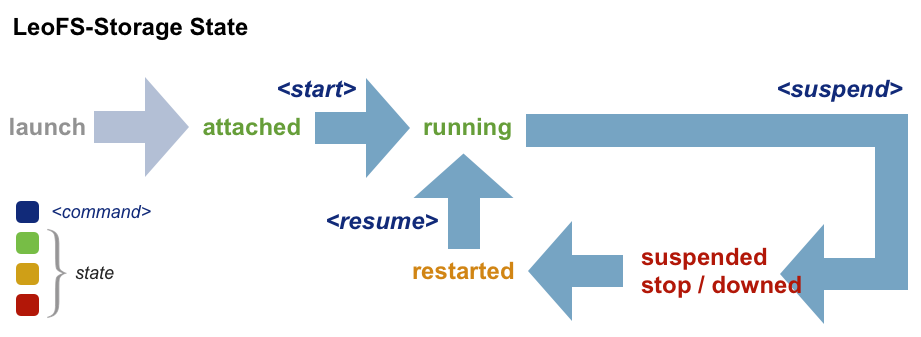
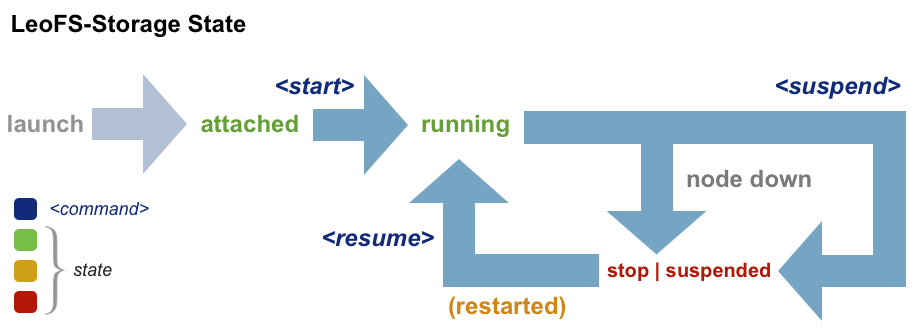
Modify any docs for v0.14

diff --git a/conf.py b/conf.py
@@ -44,16 +44,16 @@ master_doc = 'index'
 
 # General information about the project.
 project = u'LeoFS'
-copyright = u'2012, Leo Project - www.leofs.org'
+copyright = u'2012-2013, Leo Project - www.leofs.org'
 
 # The version info for the project you're documenting, acts as replacement for
 # |version| and |release|, also used in various other places throughout the
 # built documents.
 #
 # The short X.Y version.
-version = '0.12'
+version = '0.14'
 # The full version, including alpha/beta/rc tags.
-release = '0.12'
+release = '0.14'
 
 # The language for content autogenerated by Sphinx. Refer to documentation
 # for a list of supported languages.

diff --git a/admin_guide.rst b/admin_guide.rst
@@ -19,6 +19,9 @@ LeoFS's system launch is very easy and simple as follows.
 
 Operation
 """"""""""
+
+\
+
 +-------------+------------------------------------+------------------------------------------------------------+
 | Order       | Command                            | Explanation                                                |
 +=============+====================================+============================================================+
@@ -192,21 +195,28 @@ LeoFS-cluster's operation commands are executed on **LeoFS-Manager Console**.
 
 \
 
-+------------------------------------------------------+----------------------------------------------------------------+
-| Command                                              | Explanation                                                    |
-+======================================================+================================================================+
-| detach ${storage-node}                               | Remove a storage node from the cluster                         |
-+------------------------------------------------------+----------------------------------------------------------------+
-| resume ${storage-node}                               | Restarting - 'nodedown' or 'stop' - storage node               |
-+------------------------------------------------------+----------------------------------------------------------------+
-| suspend ${storage-node}                              | Suspend a storage node                                         |
-+------------------------------------------------------+----------------------------------------------------------------+
-| start                                                | Launch the cluster                                             |
-+------------------------------------------------------+----------------------------------------------------------------+
-| rebalance                                            | Move or Copy files into the cluster                            |
-+------------------------------------------------------+----------------------------------------------------------------+
-| whereis ${file-path}                                 | Retrieve status of an assigned file                            |
-+------------------------------------------------------+----------------------------------------------------------------+
++-----------------------------+---------------------------------------------------------------------------------------------------+
+| Command                     | Explanation                                                                                       |
++=============================+===================================================================================================+
+| **Storage-node related commands:**                                                                                              |
++-----------------------------+---------------------------------------------------------------------------------------------------+
+| detach `${storage-node}`    | * Remove a storage-node from the LeoFS storage-cluster                                            |
+|                             | * Current status: ``running`` | ``stop``                                                          |
++-----------------------------+---------------------------------------------------------------------------------------------------+
+| suspend `${storage-node}`   | * Suspend a storage-node for maintenance, Also this command does NOT change "routing-table (RING)"|
+|                             | * Current status: ``running``                                                                     |
++-----------------------------+---------------------------------------------------------------------------------------------------+
+| resume `${storage-node}`    | * Resume a storage-node                                                                           |
+|                             | * Current status: ``suspended`` | ``stop`` | ``restarted``                                        |
++-----------------------------+---------------------------------------------------------------------------------------------------+
+| **Storage-cluster related commands:**                                                                                           |
++-----------------------------+---------------------------------------------------------------------------------------------------+
+| start                       | * Launch LeoFS after distributed "routing-table (RING)" from Manager to Storage and Gateway       |
++-----------------------------+---------------------------------------------------------------------------------------------------+
+| rebalance                   | * Move or Copy files into the LeoFS storage-cluster due to changed RING                           |
++-----------------------------+---------------------------------------------------------------------------------------------------+
+| whereis `${file-path}`      | * Retrieve status of an assigned file                                                             |
++-----------------------------+---------------------------------------------------------------------------------------------------+
 
 .. index::
    detach-command
@@ -224,19 +234,6 @@ Command: ``detach ${storage-node}``
     OK
 
 .. index::
-   resume-command
-
-**'resume'** - Resume a storage node
-""""""""""""""""""""""""""""""""""""""""""
-
-Command: ``resume ${storage-node}``
-
-::
-
-    resume storage_0@127.0.0.1
-    OK
-
-.. index::
    suspend-command
 
 **'suspend'** - Suspend a storage node
@@ -249,6 +246,18 @@ Command: ``suspend ${storage-node}``
     suspend storage_0@127.0.0.1
     OK
 
+.. index::
+   resume-command
+
+**'resume'** - Resume a storage node
+""""""""""""""""""""""""""""""""""""""""""
+
+Command: ``resume ${storage-node}``
+
+::
+
+    resume storage_0@127.0.0.1
+    OK
 
 .. index::
    rebalance-command
@@ -296,19 +305,18 @@ Command: ``whereis ${file-path}``
 +-------------------------------------------------------+----------------------------------------------------------------+
 | Command                                               | Explanation                                                    |
 +=======================================================+================================================================+
-| du ${storage-node}                                    | Display disk usages(like xnix du command)                      |
+| du `${storage-node}`                                  | * Display disk usages(like xnix du command)                    |
 +-------------------------------------------------------+----------------------------------------------------------------+
-| du detail ${storage-node}                             | Display disk usages in detail (like xnix du command)           |
+| du detail `${storage-node}`                           | * Display disk usages in detail (like xnix du command)         |
 +-------------------------------------------------------+----------------------------------------------------------------+
-| compact start ${storage-node} all|${storage_pids}     | Compact raw files used by the LeoFS Storage subsystem          |
-| [${num_of_compact_proc}]                              |                                                                |
-|                                                       | Default ${num_of_compact_proc} is '3'                          |
+| compact start `${storage-node}` `all|${storage_pids}` | * Compact raw files used by the LeoFS Storage subsystem        |
+| `[${num_of_compact_proc}]`                            | * Default ${num_of_compact_proc} is '3'                        |
 +-------------------------------------------------------+----------------------------------------------------------------+
-| compact suspend ${storage-node}                       | Suspend a compaction job in progress                           |
+| compact suspend `${storage-node}`                     | * Suspend a compaction job in progress                         |
 +-------------------------------------------------------+----------------------------------------------------------------+
-| compact resume  ${storage-node}                       | Resume a compaction job under suspension                       |
+| compact resume  `${storage-node}`                     | * Resume a compaction job under suspension                     |
 +-------------------------------------------------------+----------------------------------------------------------------+
-| compact status  ${storage-node}                       | Display compation statuses                                     |
+| compact status  `${storage-node}`                     | * Display compation statuses                                   |
 +-------------------------------------------------------+----------------------------------------------------------------+
 
 .. index:: du-command
@@ -325,8 +333,8 @@ Command: ``du ${storage-node}``
       total number of objects: 39936
        active size of objects: 168256974.0
         total size of objects: 254725020.0
-        last compaction start: ----/--/-- --:--:--
-          last compaction end: ----/--/-- --:--:--
+        last compaction start: ____-__-__ __:__:__
+          last compaction end: ____-__-__ __:__:__
 
 .. index:: du-detail-command
 
@@ -344,18 +352,18 @@ Command: ``du detail ${storage-node}``
       total number of objects: 640
        active size of objects: 2696378.0
         total size of objects: 4082036.0
-        last compaction start: ----/--/-- --:--:--
-          last compaction end: ----/--/-- --:--:--
-    
+        last compaction start: ____-__-__ __:__:__
+          last compaction end: ____-__-__ __:__:__
+
     --- (snipped) ---
-    
+
                   file path: /home/leofs/dev/leofs/package/leofs/storage/avs/object/63.avs
      active number of objects: 293
       total number of objects: 586
        active size of objects: 2468909.0
         total size of objects: 3737690.0
-        last compaction start: ----/--/-- --:--:--
-          last compaction end: ----/--/-- --:--:--
+        last compaction start: ____-__-__ __:__:__
+          last compaction end: ____-__-__ __:__:__
 
 .. index:: compact-start-command
 
@@ -428,7 +436,7 @@ Command: ``compact status ${storage-node}``
 +------------------------------------------------------+----------------------------------------------------------------+
 | Command                                              | Explanation                                                    |
 +======================================================+================================================================+
-| purge ${file-path}                                   | Purge a cached file if the specified file existed in cache     |
+| purge ${file-path}                                   | * Purge a cached file if the specified file existed in cache   |
 +------------------------------------------------------+----------------------------------------------------------------+
 
 .. _purge:
@@ -457,27 +465,26 @@ Command: ``purge ${file-path}``
 
 \
 
-+------------------------------------------------------+----------------------------------------------------------------+
-| Command                                              | Explanation                                                    |
-+======================================================+================================================================+
-| create-user ${user-id}                               | Generate a S3 key pair(AccessKeyID and SecretAccessKey)        |
-+------------------------------------------------------+----------------------------------------------------------------+
-| delete-user ${user-id}                               | Remove a user                                                  |
-+------------------------------------------------------+----------------------------------------------------------------+
-| get-users                                            | Retrieve all of registered users                               |
-+------------------------------------------------------+----------------------------------------------------------------+
-| set-endpoint ${endpoint}                             | Register a new S3 Endpoint                                     |
-|                                                      |                                                                |
-|                                                      | LeoFS's domains are ruled by :ref:`this rule <s3-path-label>`. |
-+------------------------------------------------------+----------------------------------------------------------------+
-| delete-endpoint ${endpoint}                          | Delete a S3 Endpoint                                           |
-+------------------------------------------------------+----------------------------------------------------------------+
-| get-endpoints                                        | Retrieve all of S3 Endpoints registered                        |
-+------------------------------------------------------+----------------------------------------------------------------+
-| add-bucket ${bucket} ${access_key_id}                | Create a bucket                                                |
-+------------------------------------------------------+----------------------------------------------------------------+
-| get-buckets                                          | Retrieve all of registered buckets                             |
-+------------------------------------------------------+----------------------------------------------------------------+
++------------------------------------------------------+-----------------------------------------------------------------+
+| Command                                              | Explanation                                                     |
++======================================================+=================================================================+
+| create-user `${user-id}`                             | * Generate a S3 key pair(AccessKeyID and SecretAccessKey)       |
++------------------------------------------------------+-----------------------------------------------------------------+
+| delete-user `${user-id}`                             | * Remove a user                                                 |
++------------------------------------------------------+-----------------------------------------------------------------+
+| get-users                                            | * Retrieve all of registered users                              |
++------------------------------------------------------+-----------------------------------------------------------------+
+| set-endpoint `${endpoint}`                           | * Register a new S3 Endpoint                                    |
+|                                                      | * LeoFS's domains are ruled by :ref:`this rule <s3-path-label>` |
++------------------------------------------------------+-----------------------------------------------------------------+
+| delete-endpoint `${endpoint}`                        | * Delete a S3 Endpoint                                          |
++------------------------------------------------------+-----------------------------------------------------------------+
+| get-endpoints                                        | * Retrieve all of S3 Endpoints registered                       |
++------------------------------------------------------+-----------------------------------------------------------------+
+| add-bucket `${bucket}` `${access_key_id}`            | * Create a bucket                                               |
++------------------------------------------------------+-----------------------------------------------------------------+
+| get-buckets                                          | * Retrieve all of registered buckets                            |
++------------------------------------------------------+-----------------------------------------------------------------+
 
 
 .. ### CREATE USER ###

diff --git a/s3_api.rst b/s3_api.rst
@@ -64,7 +64,7 @@ Buckets-API
  +----+--------------------------------+--------------------------------------+
  | 5  | **GET Bucket (List Objects)**  | **Yes**                              |
  +----+--------------------------------+--------------------------------------+
- | 6  | GET Bucket acl                 | Plans to support with 0.12           |
+ | 6  | GET Bucket acl                 | Plans to support with 0.14           |
  +----+--------------------------------+--------------------------------------+
  | 7  | GET Bucket lifecycle           | No                                   |
  +----+--------------------------------+--------------------------------------+
@@ -90,7 +90,7 @@ Buckets-API
  +----+--------------------------------+--------------------------------------+
  | 18 | **PUT Bucket**                 | **Yes**                              |
  +----+--------------------------------+--------------------------------------+
- | 19 | PUT Bucket acl                 | Plans to support with 0.12           |
+ | 19 | PUT Bucket acl                 | Plans to support with 0.14           |
  +----+--------------------------------+--------------------------------------+
  | 20 | PUT Bucket lifecycle           | No                                   |
  +----+--------------------------------+--------------------------------------+

diff --git a/benchmark.rst b/benchmark.rst
@@ -59,7 +59,7 @@ Samples
 ^^^^^^^^^^^^^^^^^^^^^^^^^^^^^^^^^^^^^^^^^^^^^^^^^^^^^^^^^^^^^^^^^^^^^^^^^^^^^^
 
 * Some samples are included in leofs repo where path is ${LEOFS_ROOT}/test/conf/leofs_*.config
-    * `basho_bench's configuration <http://docs.basho.com/riak/latest/cookbooks/Benchmarking/#Configuration>`_
+    * You can see more detail - `basho_bench's configuration <http://docs.basho.com/riak/latest/cookbooks/Benchmarking/#Configuration>`_
 
 .. code-block:: erlang
 
@@ -101,8 +101,6 @@ Description
   |                   |                                                        |
   |                   | (Only for developers)                                  |
   +-------------------+--------------------------------------------------------+
-
-These are covered more in detail on the `Basho wiki <http://wiki.basho.com/Benchmarking-with-Basho-Bench.html>`_.
 
 .. index::
     pair: Run basho_bench; Run basho_bench

diff --git a/index.rst b/index.rst
@@ -3,7 +3,7 @@
    You can adapt this file completely to your liking, but it should at least
    contain the root `toctree` directive.
 
-LeoFS v0.12 Manual
+LeoFS v0.14 Manual
 ================================
 
 **"LeoFS"** is a highly available, distributed, eventually consistent object/blob store. Organizations can use **"LeoFS"** to store lots of data efficiently, safely, and inexpensive.
